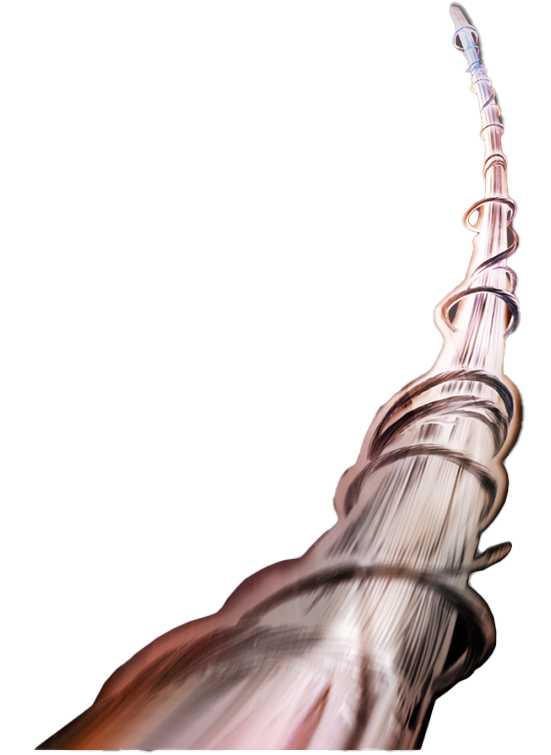
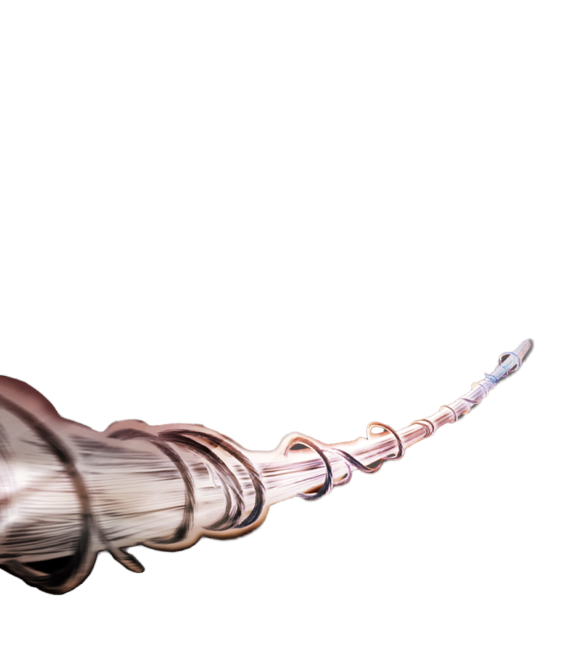
PARALLAX DE LOS 3 HOMBRE ARAÑA HECHO

diff --git a/TP3/css/style.css b/TP3/css/style.css
@@ -15,24 +15,28 @@ body {
     flex-direction: column;
 }
 
-header {}
+footer {
+    width: 1280px;
+    height: 598px;
+    background: #5E5E5D;
+    position: relative;
+    bottom: 3145px;
+}
 
+/*-----------------------------------------------------------------------------------------INICIO DEL HEADER--------------------------------------------------------------------------------------------*/
 .header-bg {
     background-color: #5499F8;
     width: 1280px;
     height: 227px;
-    z-index: -1;
 }
 
-/*Header*/
-.menu-hamburguesa {
-    width: 34px;
-    height: 26px;
-    filter: drop-shadow(4px 5px 0px #02187E);
-    position: relative;
-    bottom: -20px;
-    left: 100px;
-
+.div-header {
+    position: fixed;
+    width: 1280px;
+    height: 145px;
+    background: linear-gradient(0deg, rgba(84, 153, 248, 0.00) 0%, #5499F8 12.09%, #5499F8 100%);
+    z-index: 999;
+    transition: 0.4s ease-out;
 }
 
 .div-header.abajo {
@@ -40,16 +44,76 @@ header {}
     height: 83px;
 }
 
-@keyframes mover {
-    0% {
-        top: 10px;
-        left: 575px;
-    }
+.menu-hamburguesa {
+    width: 34px;
+    height: 26px;
+    filter: drop-shadow(4px 5px 0px #02187E);
+    position: relative;
+    bottom: -20px;
+    left: 100px;
+}
 
-    100% {
-        top: 50px;
-        left: 600px;
-    }
+.linea {
+    width: 34px;
+    height: 4px;
+    border-radius: 111px;
+    border: 4px solid #2981FF;
+    background: #FFE901;
+}
+
+.btn-comprar {
+    position: absolute;
+    right: 100px;
+    top: 15px;
+    width: 200px;
+    height: 50px;
+    border-radius: 111px;
+    border: 8px solid var(--2982-ff, #2982FF);
+    background: #FFE901;
+    box-shadow: 4px 5px 0px 0px #02187E;
+    color: #02187E;
+    font-family: 'Lato';
+    font-size: 20px;
+    font-style: normal;
+    font-weight: 900;
+    line-height: 94.5%;
+    letter-spacing: 2.2px;
+}
+
+.btn-comprar:hover,
+.btn-comprar-ahora:hover {
+    box-shadow: 0 0.5em 0.5em -0.4em var(--hover);
+    transform: translateY(0.25em);
+    transition: 0.50s ease;
+    background-color: #249A12;
+    cursor: pointer;
+}
+
+.btn-comprar::after {
+    transition: width 0.25s ease;
+}
+
+/*-----------------------------------------------------------------------------------------FIN DEL HEADER-----------------------------------------------------------------------------------------------*/
+/**/
+/**/
+/**/
+/*-----------------------------------------------------------------------------------------INICIO DIV1--------------------------------------------------------------------------------------------------*/
+
+.div1 {
+    width: 1280px;
+    height: 720px;
+    position: relative;
+    bottom: 50px;
+}
+
+.div1 .layer-8 {
+    width: 590px;
+    height: 301px;
+    background-image: url("../images/image-5-1.png");
+    position: relative;
+    left: 330px;
+    bottom: 3857px;
+    z-index: 1;
 }
 
 .div1.abajo .layer-8 {
@@ -63,82 +127,7 @@ header {}
     transition: 0.5s;
 }
 
-
-
-.div1 .layer-8 {
-    width: 590px;
-    height: 301px;
-    background-image: url("../images/image-5-1.png");
-    position: relative;
-    left: 320px;
-    bottom: 3810px;
-}
-
-.linea {
-    width: 34px;
-    height: 4px;
-    border-radius: 111px;
-    border: 4px solid #2981FF;
-    background: #FFE901;
-
-}
-
-.btn-comprar:hover,.btn-comprar-ahora:hover{
-    box-shadow: 0 0.5em 0.5em -0.4em var(--hover);
-    transform: translateY(0.25em);
-    transition: 0.50s ease;
-   
-    background-color: #249A12;
-    cursor: pointer;
-}
-.btn-comprar::after {
-  
-    
-    transition:width 0.25s ease;
-}
-
-.btn-comprar {
-    position: absolute;
-    right: 100px;
-    top: 15px;
-    width: 200px;
-    height: 50px;
-    border-radius: 111px;
-    border: 8px solid var(--2982-ff, #2982FF);
-    background: #FFE901;
-    /* Drop Shadow */
-    box-shadow: 4px 5px 0px 0px #02187E;
-    color: #02187E;
-
-    font-family: 'Lato';
-    font-size: 20px;
-    font-style: normal;
-    font-weight: 900;
-    line-height: 94.5%;
-    /* 18.9px */
-    letter-spacing: 2.2px;
-}
-
-.div-header {
-    position: fixed;
-    width: 1280px;
-    height: 145px;
-    background: linear-gradient(0deg, rgba(84, 153, 248, 0.00) 0%, #5499F8 12.09%, #5499F8 100%);
-    z-index: 999;
-    transition: 0.4s ease-out;
-}
-
-
-/*INICIO LAYERS*/
-.div1 {
-    width: 1280px;
-    height: 720px;
-    position: relative;
-    bottom: 50px;
-
-}
-
-/*Fondo*/
+/*Fondo nubes*/
 .layer-1 {
     width: 1280px;
     height: 720px;
@@ -146,23 +135,21 @@ header {}
     position: relative;
     bottom: 47px;
 
-    /* animation: scroll 20s linear; */
 }
 
-/*Edificio Izquierda*/
+/*Fondo edificios*/
 .layer-2 {
     width: 1280px;
     height: 720px;
     background-image: url("../images/Edificios-difuminados.png");
-    /* animation: scroll 18s linear; */
     position: relative;
-
     bottom: 760px;
 
 }
 
 /*GWEN STACY*/
 .layer-3 {
+
     width: 360px;
     height: 444px;
     background-image: url("../images/image-3.png");
@@ -173,18 +160,18 @@ header {}
 
 /*PETER PARKER*/
 .layer-4 {
-    z-index: 1;
     width: 465px;
     height: 465px;
     background-image: url("../images/image-2.png");
     position: relative;
     left: 400px;
     bottom: 1622px;
+    z-index: 1;
 }
 
 /*MILES MORALES*/
 .layer-5 {
-    z-index: 1;
+    z-index: 2;
     width: 393px;
     height: 393px;
     background-image: url("../images/image-1.png");
@@ -196,19 +183,18 @@ header {}
 /*TELARAÑA DE PETER PARKER*/
 .layer-6 {
     z-index: 1;
-    width: 460px;
-    height: 627.274px;
+    width: 567px;
+    height: 671px;
     background-image: url("../images/untitled-5-1.png");
-    transform: rotate(65.403deg);
     background-size: contain;
     position: relative;
-    right: 38px;
-    bottom: 2487px;
+    right: -5px;
+    bottom: 2507px;
 }
 
 /*TELARAÑA DE MILES MORALES*/
 .layer-7 {
-    z-index: 0;
+    z-index: 1;
     width: 301.659px;
     height: 372.442px;
     background-image: url("../images/untitled-5-3.png");
@@ -217,17 +203,10 @@ header {}
     bottom: 3144px;
 }
 
-/*.layer-8 {
-    width: 590px;
-    height: 301px;
-    background-image: url("../images/image-5-1.png");
-    position: relative;
-    left: 320px;
-    bottom: 3810px;
-    transition: 0.5s;
-}*/
-/*FIN LAYERS*/
-
+/*----------------------------------------------------------------------------------------------FIN DIV1--------------------------------------------------------------------------------------------------*/
+/**/
+/**/
+/**/
 .rectangulo-8 {
     width: 1280px;
     height: 844.5px;
@@ -241,6 +220,7 @@ header {}
     height: 700px;
     position: relative;
     bottom: 154px;
+
 }
 
 .titulo-h2 {
@@ -491,10 +471,6 @@ header {}
 }
 
 /*Amigos*/
-
-
-
-
 
 .fondo-amigos {
     z-index: -1;
@@ -862,14 +838,7 @@ header {}
 
 
 
-footer {
-    width: 1280px;
-    height: 598px;
-    background: #5E5E5D;
 
-    position: relative;
-    bottom: 3145px;
-}
 
 .derechos-reservados {
     padding-top: 38px;

diff --git a/TP3/index.html b/TP3/index.html
@@ -4,7 +4,7 @@
 <head>
     <meta charset="UTF-8">
     <meta name="viewport" content="width=device-width, initial-scale=1.0">
-    <title>Document</title>
+    <title>Spider-Man</title>
     <link rel="stylesheet" href="css/style.css">
     <link rel="preconnect" href="https://fonts.googleapis.com">
     <link rel="preconnect" href="https://fonts.gstatic.com" crossorigin>
@@ -32,14 +32,14 @@
     </header>
 
     <div class="div1">
-        <div class="layer-1 parallaxHero" data-speed="2"></div>
-        <div class="layer-2 parallaxHero" data-speed="7"></div>
-        <div class="layer-3 parallaxHero" data-speed="13"></div>
-        <div class="layer-4 parallaxHero" data-speed="17"></div>
-        <div class="layer-5 parallaxHero" data-speed="24"></div>
-        <div class="layer-6 parallaxHero" data-speed="29"></div>
-        <div class="layer-7 parallaxHero" data-speed="35"></div>
-        <div class="layer-8 parallaxHero" data-speed="47"></div>
+        <div class="layer-1 parallaxHero" data-speed="-50"></div>
+        <div class="layer-2 parallaxHero" data-speed="-50"></div>
+        <div class="layer-3 parallaxHero" data-speed="25"></div>
+        <div class="layer-4 parallaxHero" data-speed="25"></div>
+        <div class="layer-5 parallaxHero" data-speed="25"></div>
+        <div class="layer-6 parallaxHero" data-speed="25"></div>
+        <div class="layer-7 parallaxHero" data-speed="25"></div>
+        <div class="layer-8"></div>
     </div>
 
     <div class="div-duende-verde">
